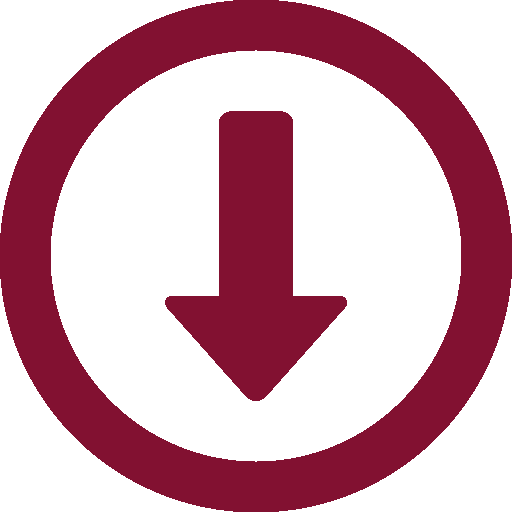
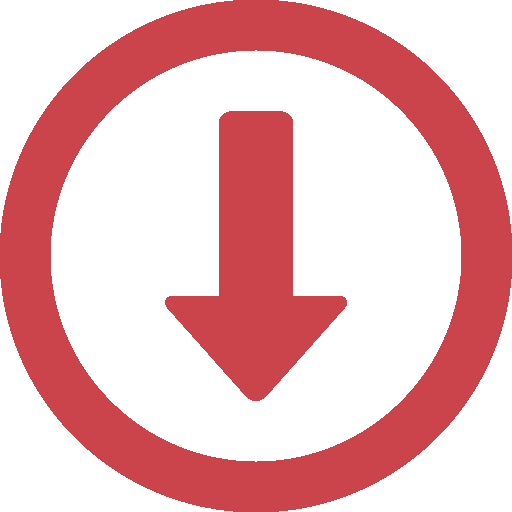
Add call-to-action section

diff --git a/index.html b/index.html
@@ -33,8 +33,17 @@
         </div>
         <p class="description">This is a simple calculator made to demonstrate my CSS and JavaScript proficiencies. It's
             modelled after the TI-DataMath 2500 classic pocket calculator.</p>
-
     </main>
+    
+    <section class="cta-section">
+        <h3 class="cta-txt">So now you've seen what I can do. I am actively seeking work so let me know if you have need of someone like me!</h3>
+        <div class="social-container">
+            <a href="https://linkedIn.com/in/derekwhayes/"><img class="social-img" src="./images/LI-In-Bug.png" alt="LinkedIn icon"></a>
+            <a href="mailto:derekwhayes@icloud.com"><img class="social-img" src="./images/mail_1324171.png" alt="Email icon"></a>
+            <a href="https://github.com/derekwhayes/"><img class="social-img" src="./images/github-mark.png" alt="GitHub icon"></a>
+        </div>
+
+    </section>
 </body>
 
 </html>

diff --git a/styles/style.css b/styles/style.css
@@ -12,10 +12,10 @@
 /*         COLORS         */
 /**************************/
 :root {
-    --primary: lightgray;
+    --primary: #c5c8e7;
     --secondary: gray;
     --tertiary: darkgray;
-    --accent: black;
+    --accent: #CC444B;
 }
 
 body {
@@ -103,7 +103,6 @@ body {
     display: grid;
     grid-template-columns: 1fr 1fr;
     align-items: center;
-    /* justify-items: center; */
 }
 
 .project-link {
@@ -128,4 +127,29 @@ body {
 
 .description {
     margin: 5% 5%;
+}
+
+/**************************/
+/*          CTA           */
+/**************************/
+
+.cta-section {
+    background-color: var(--secondary);
+    padding: 5%;
+}
+
+.cta-txt {
+    text-align: center;
+    margin-bottom: 10%
+}
+
+.social-container {
+    display: flex;
+    justify-content: center;
+    gap: 3rem;
+    margin-bottom: 10%;
+}
+
+.social-img {
+    height: 40px;
 }

diff --git a/README.md b/README.md
@@ -1,1 +1,2 @@
 <a href="https://www.flaticon.com/free-icons/down-arrow" title="down arrow icons">Down arrow icons created by Laisa Islam Ani - Flaticon</a>
+<a href="https://www.freepik.com/icon/mail_1324171#fromView=keyword&page=1&position=3&uuid=e541d882-1fa0-47a0-8aa9-3bce829a5274">Icon by Freepik</a>
